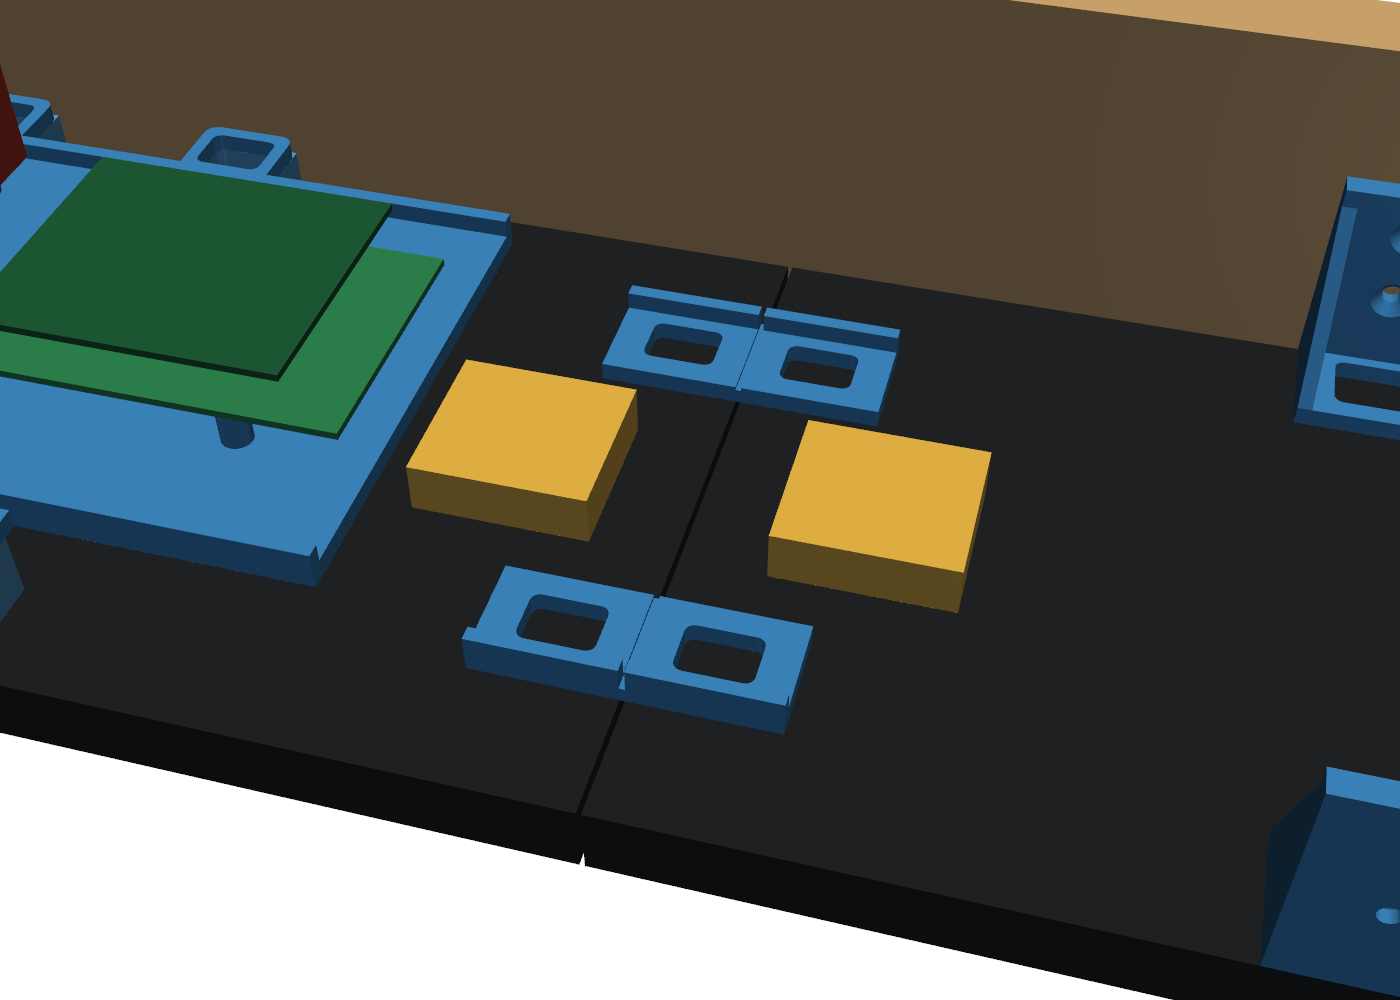
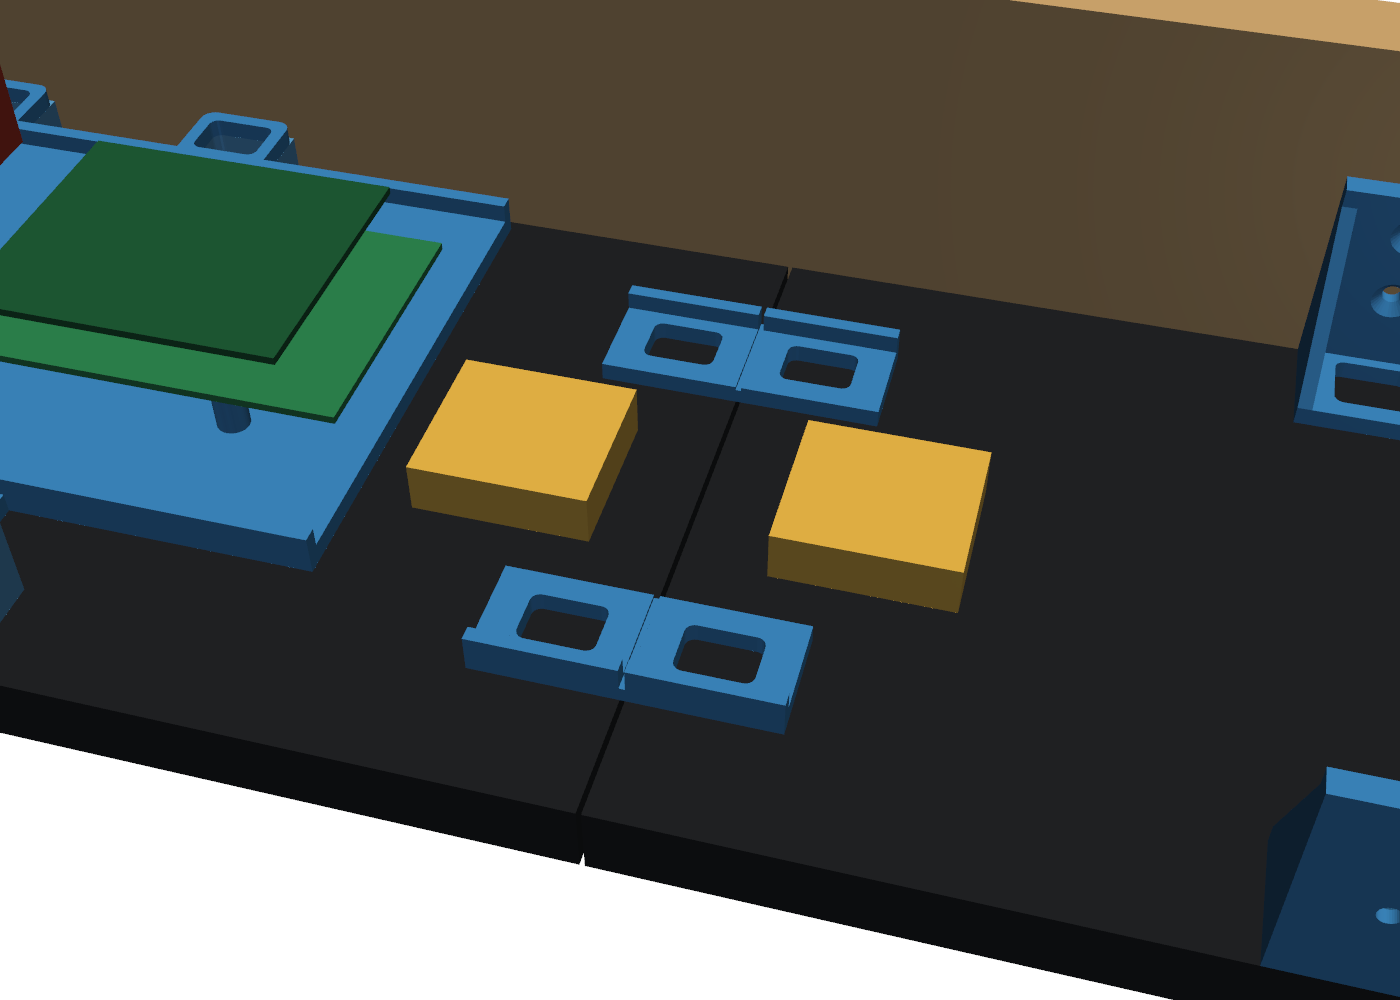
Plate legs 18 mm: room for the panel's VH4 power plug and its wires
Claude-Session: https://claude.ai/code/session_01HYeaEYygyfgRPSDkpePvV6

Changed region(s): [[0.0, 0.062, 0.3686, 0.589], [0.0, 0.217, 0.0307, 0.279]]

diff --git a/hardware/render_midpanel.py b/hardware/render_midpanel.py
@@ -1,7 +1,7 @@
 # 3D renders of the 11/25 mid-panel layout (straps at every seam, Pi plate on Panel 3, supply plate on Panel 2).
 import numpy as np, trimesh, pyvista as pv
 pv.OFF_SCREEN = True
-LEG, T = 14.0, 4.0
+LEG, T = 18.0, 4.0
 def stl(n): return trimesh.load(n)
 def bx(x0, y0, z0, x1, y1, z1):
     return trimesh.creation.box(extents=[x1-x0, y1-y0, z1-z0]).apply_translation([(x0+x1)/2, (y0+y1)/2, (z0+z1)/2])
@@ -24,11 +24,11 @@ def plate(name, cx):
         for y in (-66, 66):
             l = stl("ticker-leg.stl"); l.apply_translation([cx + x, y, 0]); add(l, "#5aa9e6")
 plate("ticker-pi-mount.stl", 0)
-add(bx(55.0-42.5, -28, 26, 55.0+42.5, 28, 27.6), PI)              # Pi 4
-add(bx(55.0-32.5, -28, 38, 55.0+32.5, 28, 39.6), "#1f5f3a")       # bonnet
-add(bx(-52.5-44, -44, 24, -52.5+44, 44, 61), FUSE)                # fuse block
+add(bx(55.0-42.5, -28, 30, 55.0+42.5, 28, 31.6), PI)              # Pi 4
+add(bx(55.0-32.5, -28, 42, 55.0+32.5, 28, 43.6), "#1f5f3a")       # bonnet
+add(bx(-52.5-44, -44, 28, -52.5+44, 44, 65), FUSE)                # fuse block
 plate("ticker-psu-plate.stl", -320)
-add(bx(-320-98.5, -49, 18, -320+98.5, 49, 63), PSU)               # 5V 30A supply
+add(bx(-320-98.5, -49, 22, -320+98.5, 49, 64), PSU)               # 5V 30A supply
 for i, cx in enumerate(centers):                                  # edge clips, top + bottom
     x = cx - (117 if cx in (0, -320) else 31)
     c = stl("ticker-edge-clip.stl"); c.apply_translation([x, 0, 0]); add(c, PRINT); add(mirror_y(c), PRINT)

diff --git a/hardware/seam_parts.py b/hardware/seam_parts.py
@@ -39,9 +39,9 @@ def windows(part, xs):
             part = part - rbox(x - WIN_X - 1.7, y - WIN_Y - 1.7, x + WIN_X + 1.7, y + WIN_Y + 1.7, -1, T + 2, 2.0)
     return part
 
-LEG = 14.0                         # raised parts: plate underside this high off the panel frame, so the ribbon
+LEG = 18.0                         # raised parts: plate underside this high off the panel frame, so the ribbon
                                    # connectors (IN/OUT, 1-2" in from each end, center of the panel) and the power
-                                   # plug fit underneath. Screws for raised parts: M4 x 25.
+                                   # plug fit underneath. 18 mm (11/25): the panel power plug is a JST VH4 (16.5 mm above the board, ~7.5 mm above the frame) and its wires need room to bend. Screws: M4 x 30 (~6 mm into the insert).
 def legs(part, xs, ys=(-INS_Y, INS_Y)):
     """Hollow legs under a plate that sits at z=LEG..LEG+T: one around each insert, window straight through."""
     for x in xs:
